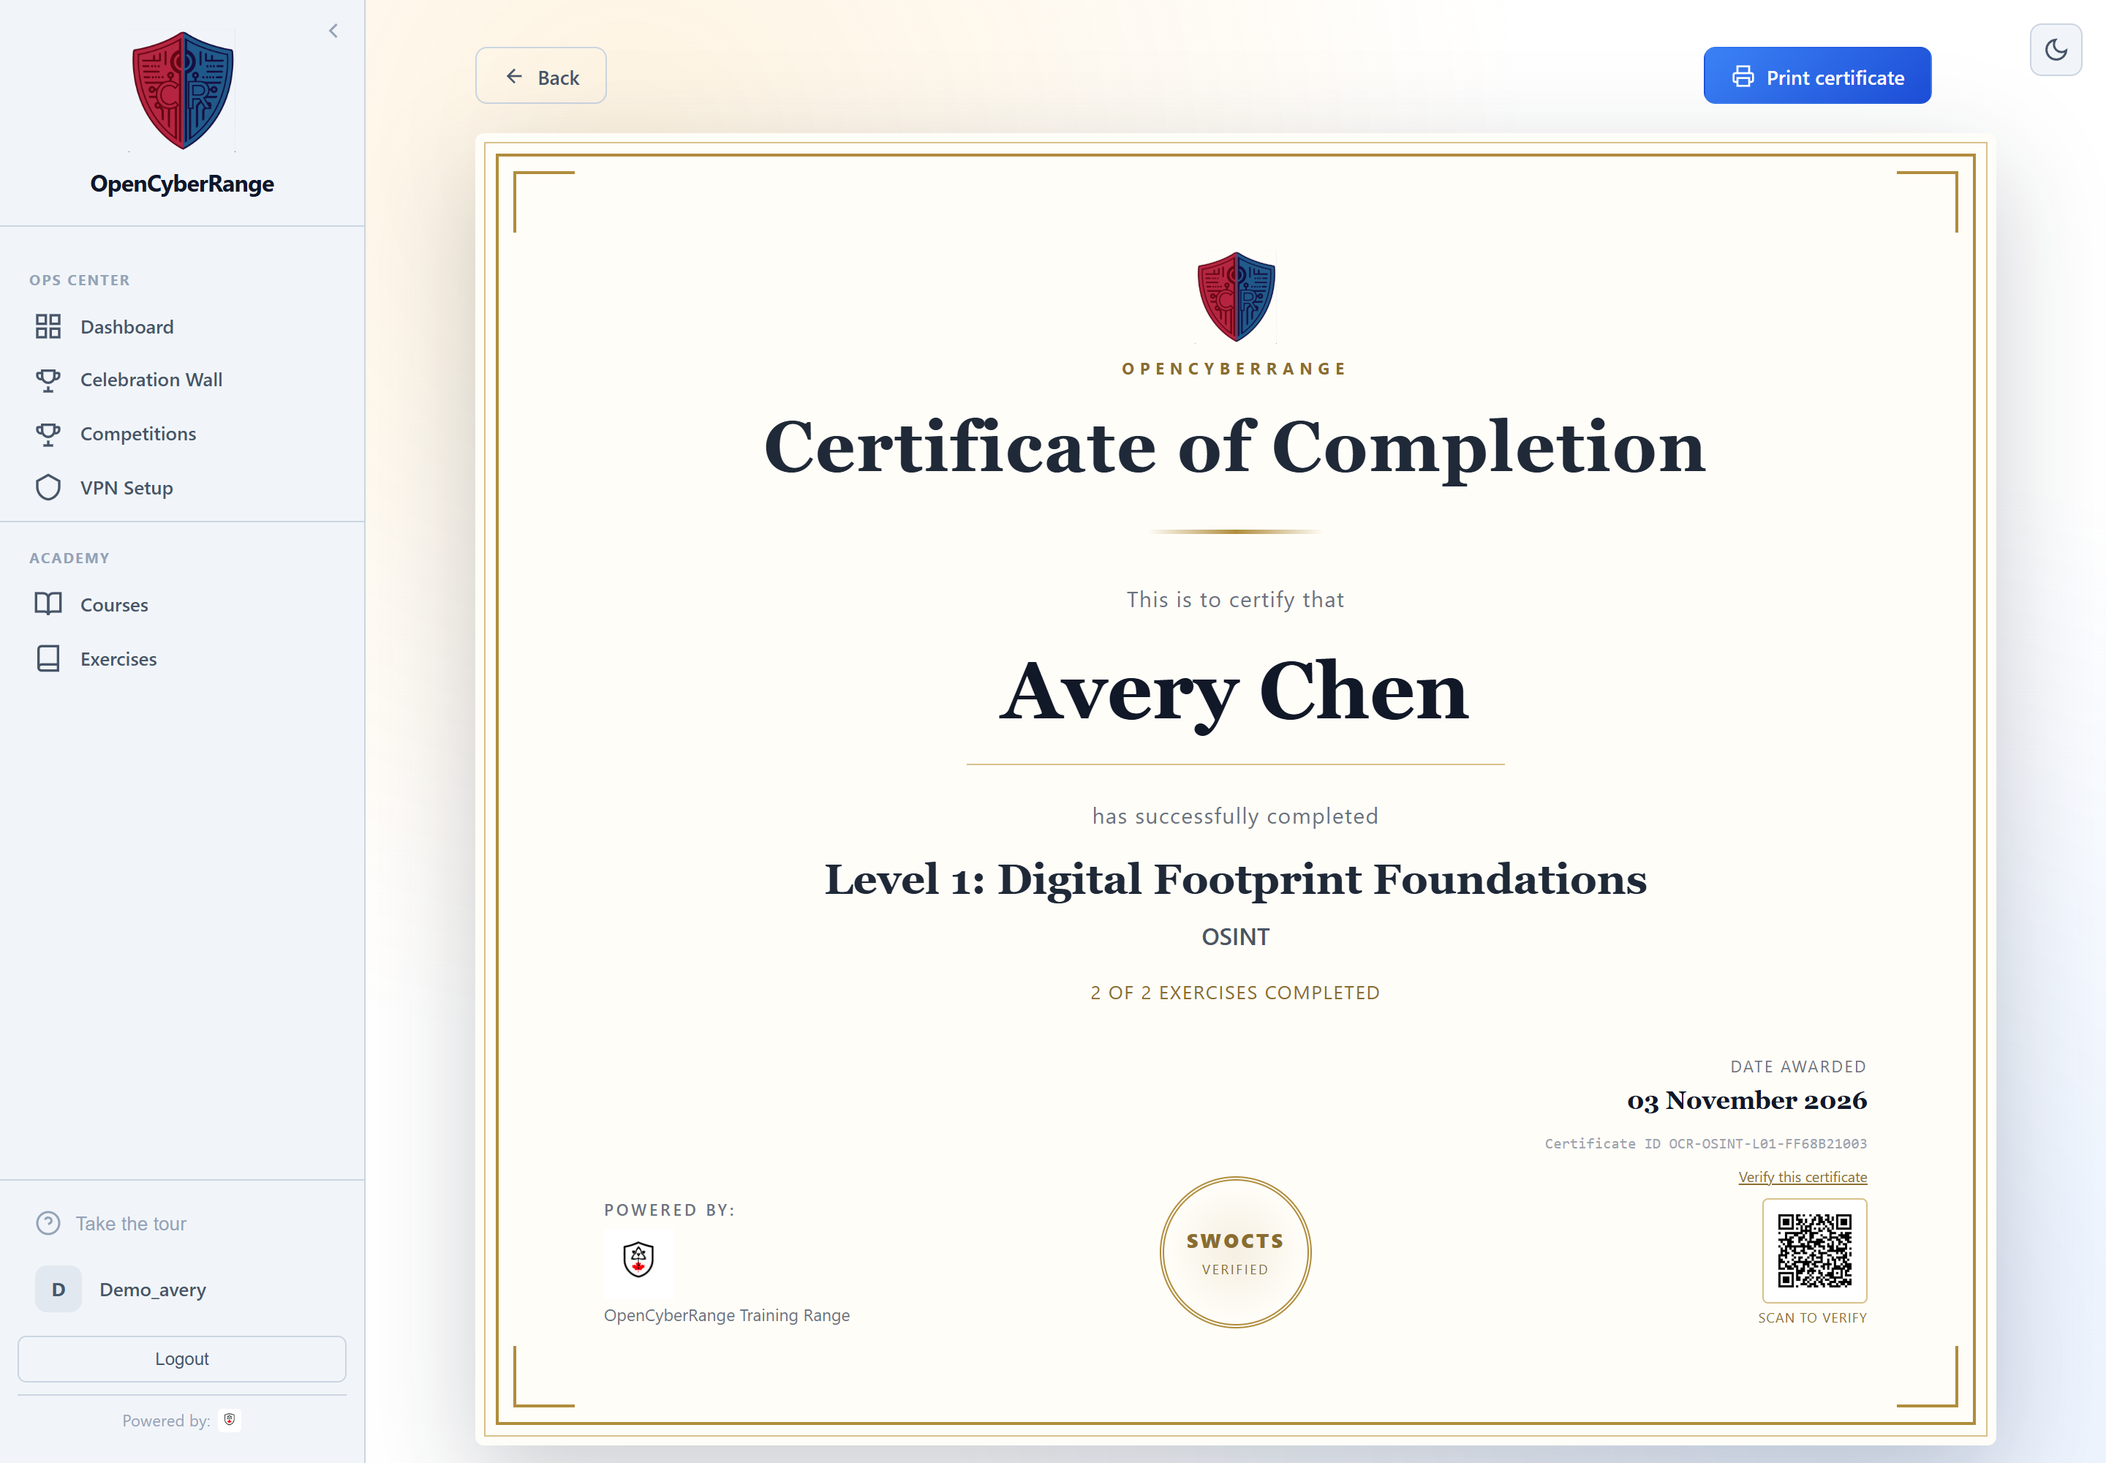
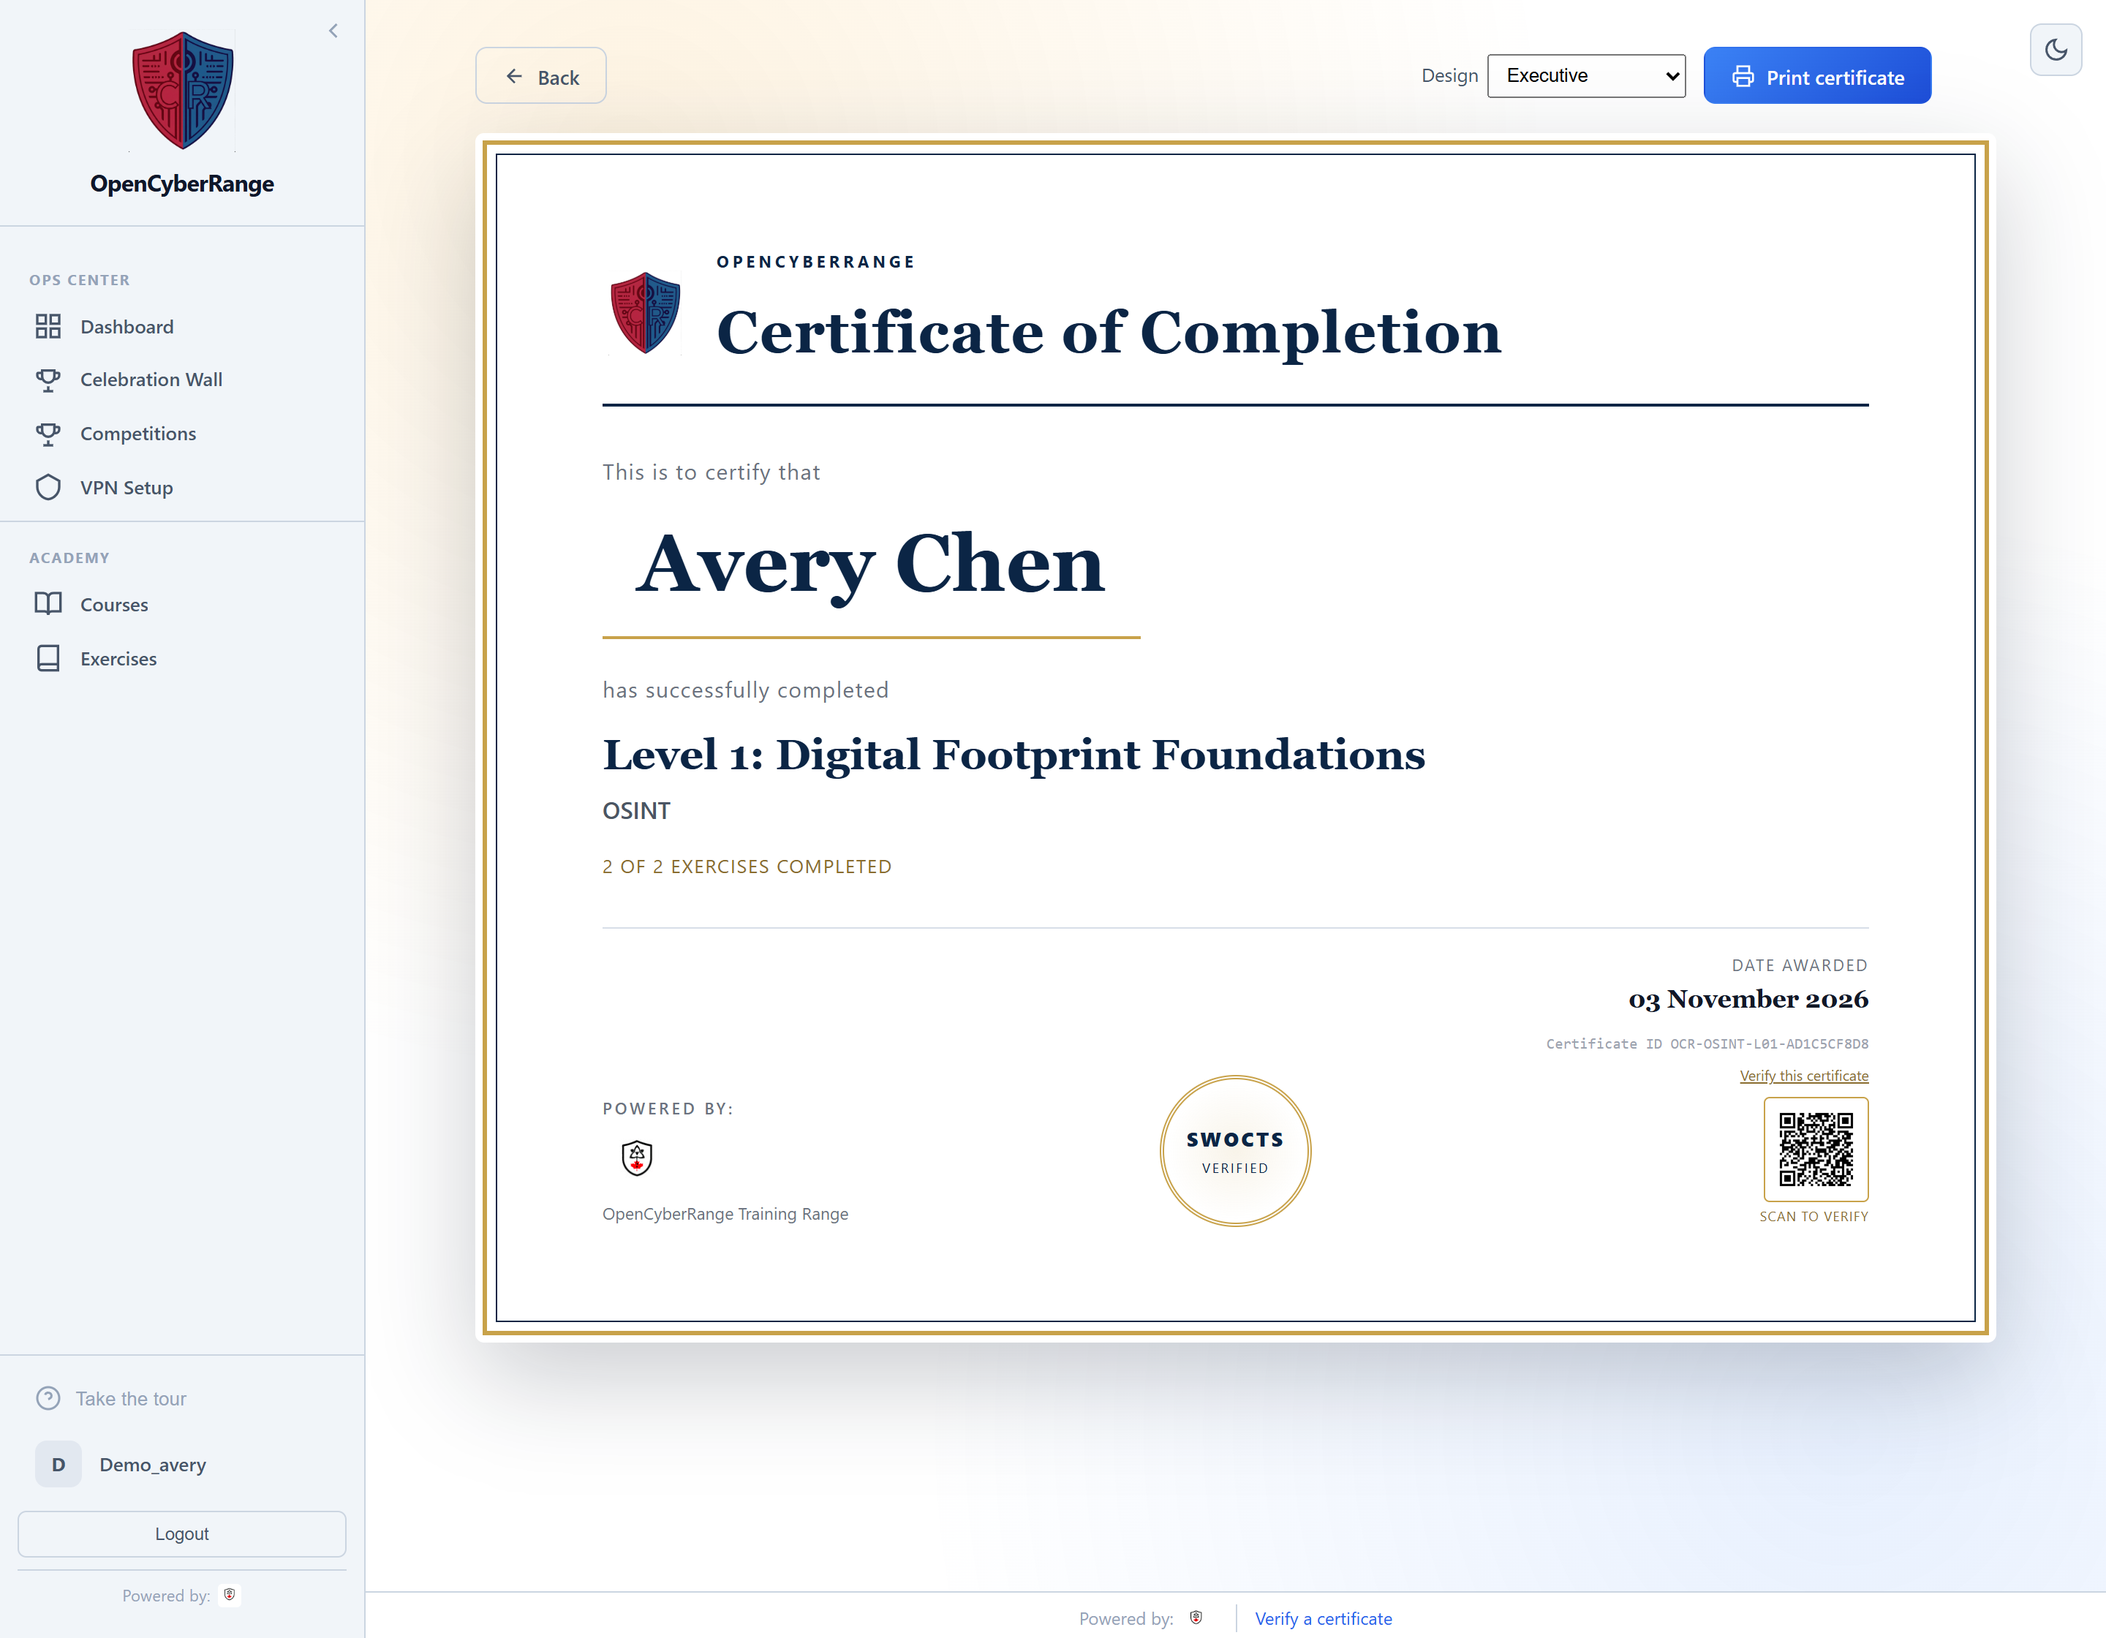
feat(certificates): add selectable certificate designs
- add classic, executive, modern, and minimal layouts using existing logos\n- add a certificate-page design picker with a stored view preference\n- add an admin certificate_design default and settings selector\n- refresh the README certificate screenshot

diff --git a/platform/frontend/src/views/Certificate.vue b/platform/frontend/src/views/Certificate.vue
@@ -8,18 +8,28 @@
         </svg>
         Back
       </button>
-      <label v-if="certificate?.achievements?.length" class="certificate-toggle">
-        <input v-model="showAchievements" type="checkbox" />
-        Include achievements
-      </label>
-      <button v-if="certificate" class="btn btn--primary" @click="printCertificate">
-        <svg viewBox="0 0 24 24" fill="none" stroke="currentColor" stroke-width="2">
-          <polyline points="6 9 6 2 18 2 18 9"/>
-          <path d="M6 18H4a2 2 0 0 1-2-2v-5a2 2 0 0 1 2-2h16a2 2 0 0 1 2 2v5a2 2 0 0 1-2 2h-2"/>
-          <rect x="6" y="14" width="12" height="8"/>
-        </svg>
-        Print certificate
-      </button>
+      <div class="certificate-actions__right">
+        <label v-if="certificate?.achievements?.length" class="certificate-toggle">
+          <input v-model="showAchievements" type="checkbox" />
+          Include achievements
+        </label>
+        <label v-if="certificate" class="certificate-design">
+          <span>Design</span>
+          <select v-model="activeDesign" class="form-input form-input--sm">
+            <option v-for="design in certificateDesigns" :key="design.value" :value="design.value">
+              {{ design.label }}
+            </option>
+          </select>
+        </label>
+        <button v-if="certificate" class="btn btn--primary" @click="printCertificate">
+          <svg viewBox="0 0 24 24" fill="none" stroke="currentColor" stroke-width="2">
+            <polyline points="6 9 6 2 18 2 18 9"/>
+            <path d="M6 18H4a2 2 0 0 1-2-2v-5a2 2 0 0 1 2-2h16a2 2 0 0 1 2 2v5a2 2 0 0 1-2 2h-2"/>
+            <rect x="6" y="14" width="12" height="8"/>
+          </svg>
+          Print certificate
+        </button>
+      </div>
     </div>
 
     <div v-if="loading" class="certificate-state">Preparing your certificate...</div>
@@ -30,7 +40,7 @@
       <button class="btn btn--primary no-print" @click="goBack">Return to the track</button>
     </div>
 
-    <article v-else-if="certificate" class="certificate" aria-label="Certificate of completion">
+    <article v-else-if="certificate" class="certificate" :class="`certificate--${activeDesign}`" aria-label="Certificate of completion">
       <div class="certificate__frame">
         <div class="certificate__corner certificate__corner--tl"></div>
         <div class="certificate__corner certificate__corner--tr"></div>
@@ -39,9 +49,11 @@
 
         <header class="certificate__header">
           <img src="/ocr-logo-dark.png" alt="OpenCyberRange" class="certificate__logo" />
-          <p class="certificate__eyebrow">OpenCyberRange</p>
-          <h1 class="certificate__title">Certificate of Completion</h1>
-          <div class="certificate__rule"></div>
+          <div class="certificate__heading">
+            <p class="certificate__eyebrow">OpenCyberRange</p>
+            <h1 class="certificate__title">Certificate of Completion</h1>
+            <div class="certificate__rule"></div>
+          </div>
         </header>
 
         <section class="certificate__body">
@@ -116,17 +128,26 @@
 </template>
 
 <script setup>
-import { onMounted, ref } from 'vue'
+import { onMounted, ref, watch } from 'vue'
 import { useRoute, useRouter } from 'vue-router'
 import axios from '../api/axios'
 
 const route = useRoute()
 const router = useRouter()
 
+const certificateDesigns = [
+  { value: 'classic', label: 'Classic' },
+  { value: 'executive', label: 'Executive' },
+  { value: 'modern', label: 'Modern' },
+  { value: 'minimal', label: 'Minimal' },
+]
+const designStorageKey = 'ocr_certificate_design'
+
 const certificate = ref(null)
 const loading = ref(true)
 const error = ref('')
 const showAchievements = ref(true)
+const activeDesign = ref('classic')
 
 const load = async () => {
   loading.value = true
@@ -136,6 +157,11 @@ const load = async () => {
       `/exercises/tracks/${route.params.trackSlug}/levels/${route.params.levelId}/certificate`
     )
     certificate.value = data
+    const stored = localStorage.getItem(designStorageKey)
+    const valid = (value) => certificateDesigns.some((design) => design.value === value)
+    activeDesign.value = valid(stored)
+      ? stored
+      : (valid(data.design) ? data.design : 'classic')
   } catch (e) {
     error.value = e?.response?.data?.detail
       || 'We could not issue a certificate for this level yet.'
@@ -143,6 +169,14 @@ const load = async () => {
     loading.value = false
   }
 }
+
+watch(activeDesign, (value) => {
+  try {
+    localStorage.setItem(designStorageKey, value)
+  } catch {
+    // Storage can be unavailable in private browsing; the design still applies.
+  }
+})
 
 const printCertificate = () => window.print()
 
@@ -179,6 +213,27 @@ onMounted(load)
   align-items: center;
   gap: 0.75rem;
   padding-right: 2.75rem;
+}
+
+.certificate-actions__right {
+  display: flex;
+  flex-wrap: wrap;
+  align-items: center;
+  gap: 0.75rem;
+}
+
+.certificate-design {
+  display: inline-flex;
+  align-items: center;
+  gap: 0.4rem;
+  color: var(--text-secondary);
+  font-size: 0.8rem;
+}
+
+.certificate-design select {
+  min-width: 8.5rem;
+  padding: 0.35rem 0.5rem;
+  font-size: 0.8rem;
 }
 
 .certificate-toggle {
@@ -252,6 +307,8 @@ onMounted(load)
   color: #1f2937;
   border-radius: 6px;
   box-shadow: 0 24px 70px rgba(15, 23, 42, 0.22);
+  -webkit-print-color-adjust: exact;
+  print-color-adjust: exact;
 }
 
 .certificate__frame {
@@ -281,6 +338,10 @@ onMounted(load)
 
 .certificate__header {
   text-align: center;
+}
+
+.certificate__heading {
+  display: block;
 }
 
 .certificate__logo {
@@ -540,10 +601,130 @@ onMounted(load)
   color: #8a6d2f;
 }
 
+/* --- Executive: navy, gold, left-aligned corporate layout --- */
+.certificate--executive { background: #ffffff; }
+
+.certificate--executive .certificate__frame {
+  border: 1px solid #0b2545;
+  outline: 3px solid #c8a24a;
+  outline-offset: 6px;
+  padding: clamp(2rem, 5vw, 4rem) clamp(1.75rem, 5vw, 5rem);
+}
+
+.certificate--executive .certificate__corner { display: none; }
+
+.certificate--executive .certificate__header {
+  display: flex;
+  align-items: center;
+  gap: 1.25rem;
+  text-align: left;
+  border-bottom: 2px solid #0b2545;
+  padding-bottom: 1.1rem;
+}
+
+.certificate--executive .certificate__logo { margin: 0; width: 58px; height: 58px; }
+.certificate--executive .certificate__heading { flex: 1; }
+.certificate--executive .certificate__eyebrow { color: #0b2545; letter-spacing: 0.22em; }
+.certificate--executive .certificate__title { color: #0b2545; font-size: clamp(1.6rem, 3.2vw, 2.5rem); }
+.certificate--executive .certificate__rule { display: none; }
+.certificate--executive .certificate__body { text-align: left; }
+.certificate--executive .certificate__recipient { border-bottom: 2px solid #c8a24a; color: #0b2545; }
+.certificate--executive .certificate__level { color: #0b2545; }
+.certificate--executive .certificate__footer { border-top: 1px solid #d7dee8; padding-top: 1rem; }
+.certificate--executive .certificate__seal-ring {
+  border-color: #c8a24a;
+  color: #0b2545;
+  background: radial-gradient(circle, rgba(200, 162, 74, 0.12), transparent 68%);
+}
+.certificate--executive .certificate__qr img { border-color: #c8a24a; }
+
+/* --- Modern: white, teal accent, right-aligned brand, clean sans --- */
+.certificate--modern { background: #ffffff; }
+
+.certificate--modern .certificate__frame {
+  border: 0;
+  outline: 0;
+  border-left: 10px solid #0f766e;
+  box-shadow: inset 0 0 0 1px #e2e8f0;
+  padding: clamp(2rem, 5vw, 4rem) clamp(1.75rem, 5vw, 5rem);
+}
+
+.certificate--modern .certificate__corner { display: none; }
+
+.certificate--modern .certificate__header {
+  display: flex;
+  flex-direction: row-reverse;
+  align-items: center;
+  gap: 1.5rem;
+  text-align: left;
+}
+
+.certificate--modern .certificate__logo { margin: 0; width: 58px; height: 58px; }
+.certificate--modern .certificate__heading { flex: 1; }
+.certificate--modern .certificate__eyebrow { color: #0f766e; letter-spacing: 0.18em; }
+.certificate--modern .certificate__title {
+  font-family: ui-sans-serif, system-ui, -apple-system, "Segoe UI", sans-serif;
+  font-size: clamp(1.5rem, 3vw, 2.4rem);
+  color: #0f172a;
+}
+.certificate--modern .certificate__rule { margin: 0.8rem 0 0; width: 80px; background: #0f766e; }
+.certificate--modern .certificate__body { text-align: left; }
+.certificate--modern .certificate__recipient {
+  font-family: ui-sans-serif, system-ui, -apple-system, "Segoe UI", sans-serif;
+  border-bottom: 3px solid #0f766e;
+  color: #0f172a;
+}
+.certificate--modern .certificate__detail { color: #0f766e; }
+.certificate--modern .certificate__footer { border-top: 1px solid #e2e8f0; padding-top: 1rem; }
+.certificate--modern .certificate__seal-ring {
+  border-color: #0f766e;
+  color: #0f766e;
+  background: radial-gradient(circle, rgba(15, 118, 110, 0.1), transparent 68%);
+}
+.certificate--modern .certificate__qr img { border-color: #0f766e; }
+
+/* --- Minimal: monochrome, thin rule, generous whitespace --- */
+.certificate--minimal { background: #ffffff; }
+
+.certificate--minimal .certificate__frame {
+  border: 1px solid #d1d5db;
+  outline: 0;
+  padding: clamp(2.25rem, 5vw, 4.5rem) clamp(2rem, 6vw, 5.5rem);
+}
+
+.certificate--minimal .certificate__corner { display: none; }
+.certificate--minimal .certificate__logo { width: 48px; height: 48px; }
+.certificate--minimal .certificate__eyebrow { color: #6b7280; letter-spacing: 0.3em; }
+.certificate--minimal .certificate__title {
+  font-family: ui-sans-serif, system-ui, -apple-system, "Segoe UI", sans-serif;
+  font-weight: 500;
+  font-size: clamp(1.4rem, 2.8vw, 2.1rem);
+  color: #111827;
+}
+.certificate--minimal .certificate__rule { width: 40px; height: 1px; background: #9ca3af; }
+.certificate--minimal .certificate__recipient {
+  font-family: ui-sans-serif, system-ui, -apple-system, "Segoe UI", sans-serif;
+  font-weight: 600;
+  border-bottom: 1px solid #d1d5db;
+  color: #111827;
+}
+.certificate--minimal .certificate__detail { color: #6b7280; }
+.certificate--minimal .certificate__seal-ring {
+  border-color: #d1d5db;
+  color: #6b7280;
+  background: none;
+}
+.certificate--minimal .certificate__qr img { border-color: #d1d5db; }
+
 @media (max-width: 720px) {
   .certificate-actions {
     padding-right: 0;
     padding-top: 2.5rem;
+  }
+
+  .certificate-actions__right {
+    width: 100%;
+    justify-content: space-between;
   }
 
   .certificate__frame {

diff --git a/platform/frontend/src/views/Admin.vue b/platform/frontend/src/views/Admin.vue
@@ -1410,6 +1410,13 @@
                       {{ togglesSaving[key] ? 'Saving...' : (settingsEdits[key] === 'true' ? 'Enabled' : 'Disabled') }}
                     </button>
                   </template>
+                  <template v-else-if="key === 'certificate_design'">
+                    <select v-model="settingsEdits[key]" class="form-input form-input--sm">
+                      <option v-for="design in certificateDesigns" :key="design.value" :value="design.value">
+                        {{ design.label }}
+                      </option>
+                    </select>
+                  </template>
                   <template v-else-if="key.includes('color')">
                     <input type="color" v-model="settingsEdits[key]" class="color-input" />
                   </template>
@@ -3206,6 +3213,12 @@ const categoryLabel = (cat) => categoryLabels[cat] || cat.charAt(0).toUpperCase(
 const activeSettingsCategory = ref('security')
 const allSettings = ref({})
 const settingsEdits = reactive({})
+const certificateDesigns = [
+  { value: 'classic', label: 'Classic' },
+  { value: 'executive', label: 'Executive' },
+  { value: 'modern', label: 'Modern' },
+  { value: 'minimal', label: 'Minimal' },
+]
 const togglesSaving = reactive({})
 const settingsLoading = ref(false)
 const savingSettings = ref(false)

diff --git a/platform/backend/app/routers/curriculum.py b/platform/backend/app/routers/curriculum.py
@@ -500,6 +500,17 @@ def _certificate_achievements(
     )
 
 
+CERTIFICATE_DESIGNS = {"classic", "executive", "modern", "minimal"}
+
+
+def _certificate_design(db: Session) -> str:
+    """Return the configured certificate design, falling back to classic."""
+    value = (
+        settings_service.get_setting(db, "certificate_design", "classic") or "classic"
+    ).strip().lower()
+    return value if value in CERTIFICATE_DESIGNS else "classic"
+
+
 def build_level_certificate(
     db: Session,
     current_user: User,
@@ -586,6 +597,7 @@ def build_level_certificate(
 
     return {
         "certificate_id": certificate_id,
+        "design": _certificate_design(db),
         # Prefer the name the student supplied in their profile; fall back to
         # the login handle so a half-filled profile still prints something.
         "recipient": current_user.display_name,

diff --git a/platform/backend/app/services/settings_service.py b/platform/backend/app/services/settings_service.py
@@ -35,6 +35,8 @@ DEFAULT_SETTINGS = [
      "description": "Set to true after first-run setup wizard completes", "is_secret": False},
     {"key": "certificate_verify_url", "value": "", "category": "general",
      "description": "Base URL used in certificate QR codes for verification (e.g. https://range.example.com). Empty uses the request host.", "is_secret": False},
+    {"key": "certificate_design", "value": "classic", "category": "general",
+     "description": "Default certificate design: classic, executive, modern, or minimal", "is_secret": False},
 
     # --- Security ---
     {"key": "jwt_expiration_hours", "value": "24", "category": "security",

diff --git a/README.md b/README.md
@@ -101,8 +101,11 @@ and a downloadable PDF transcript.
 
 **Certificates and transcripts.** Completing every visible exercise in a level
 issues a certificate with a deterministic ID, a verification QR code, and a
-print/PDF action. The same profile view generates a PDF transcript containing
-certificates, every completed exercise, track progress, and course achievements.
+print/PDF action. Certificates can be rendered in **Classic**, **Executive**,
+**Modern**, or **Minimal** designs. Choose one from the certificate page, or set
+the platform default in Admin → Settings → General → Certificate Design. The
+same profile view generates a PDF transcript containing certificates, every
+completed exercise, track progress, and course achievements.
 
 ![Earned certificates on the profile](docs/img/profile-certificates.png)
 
